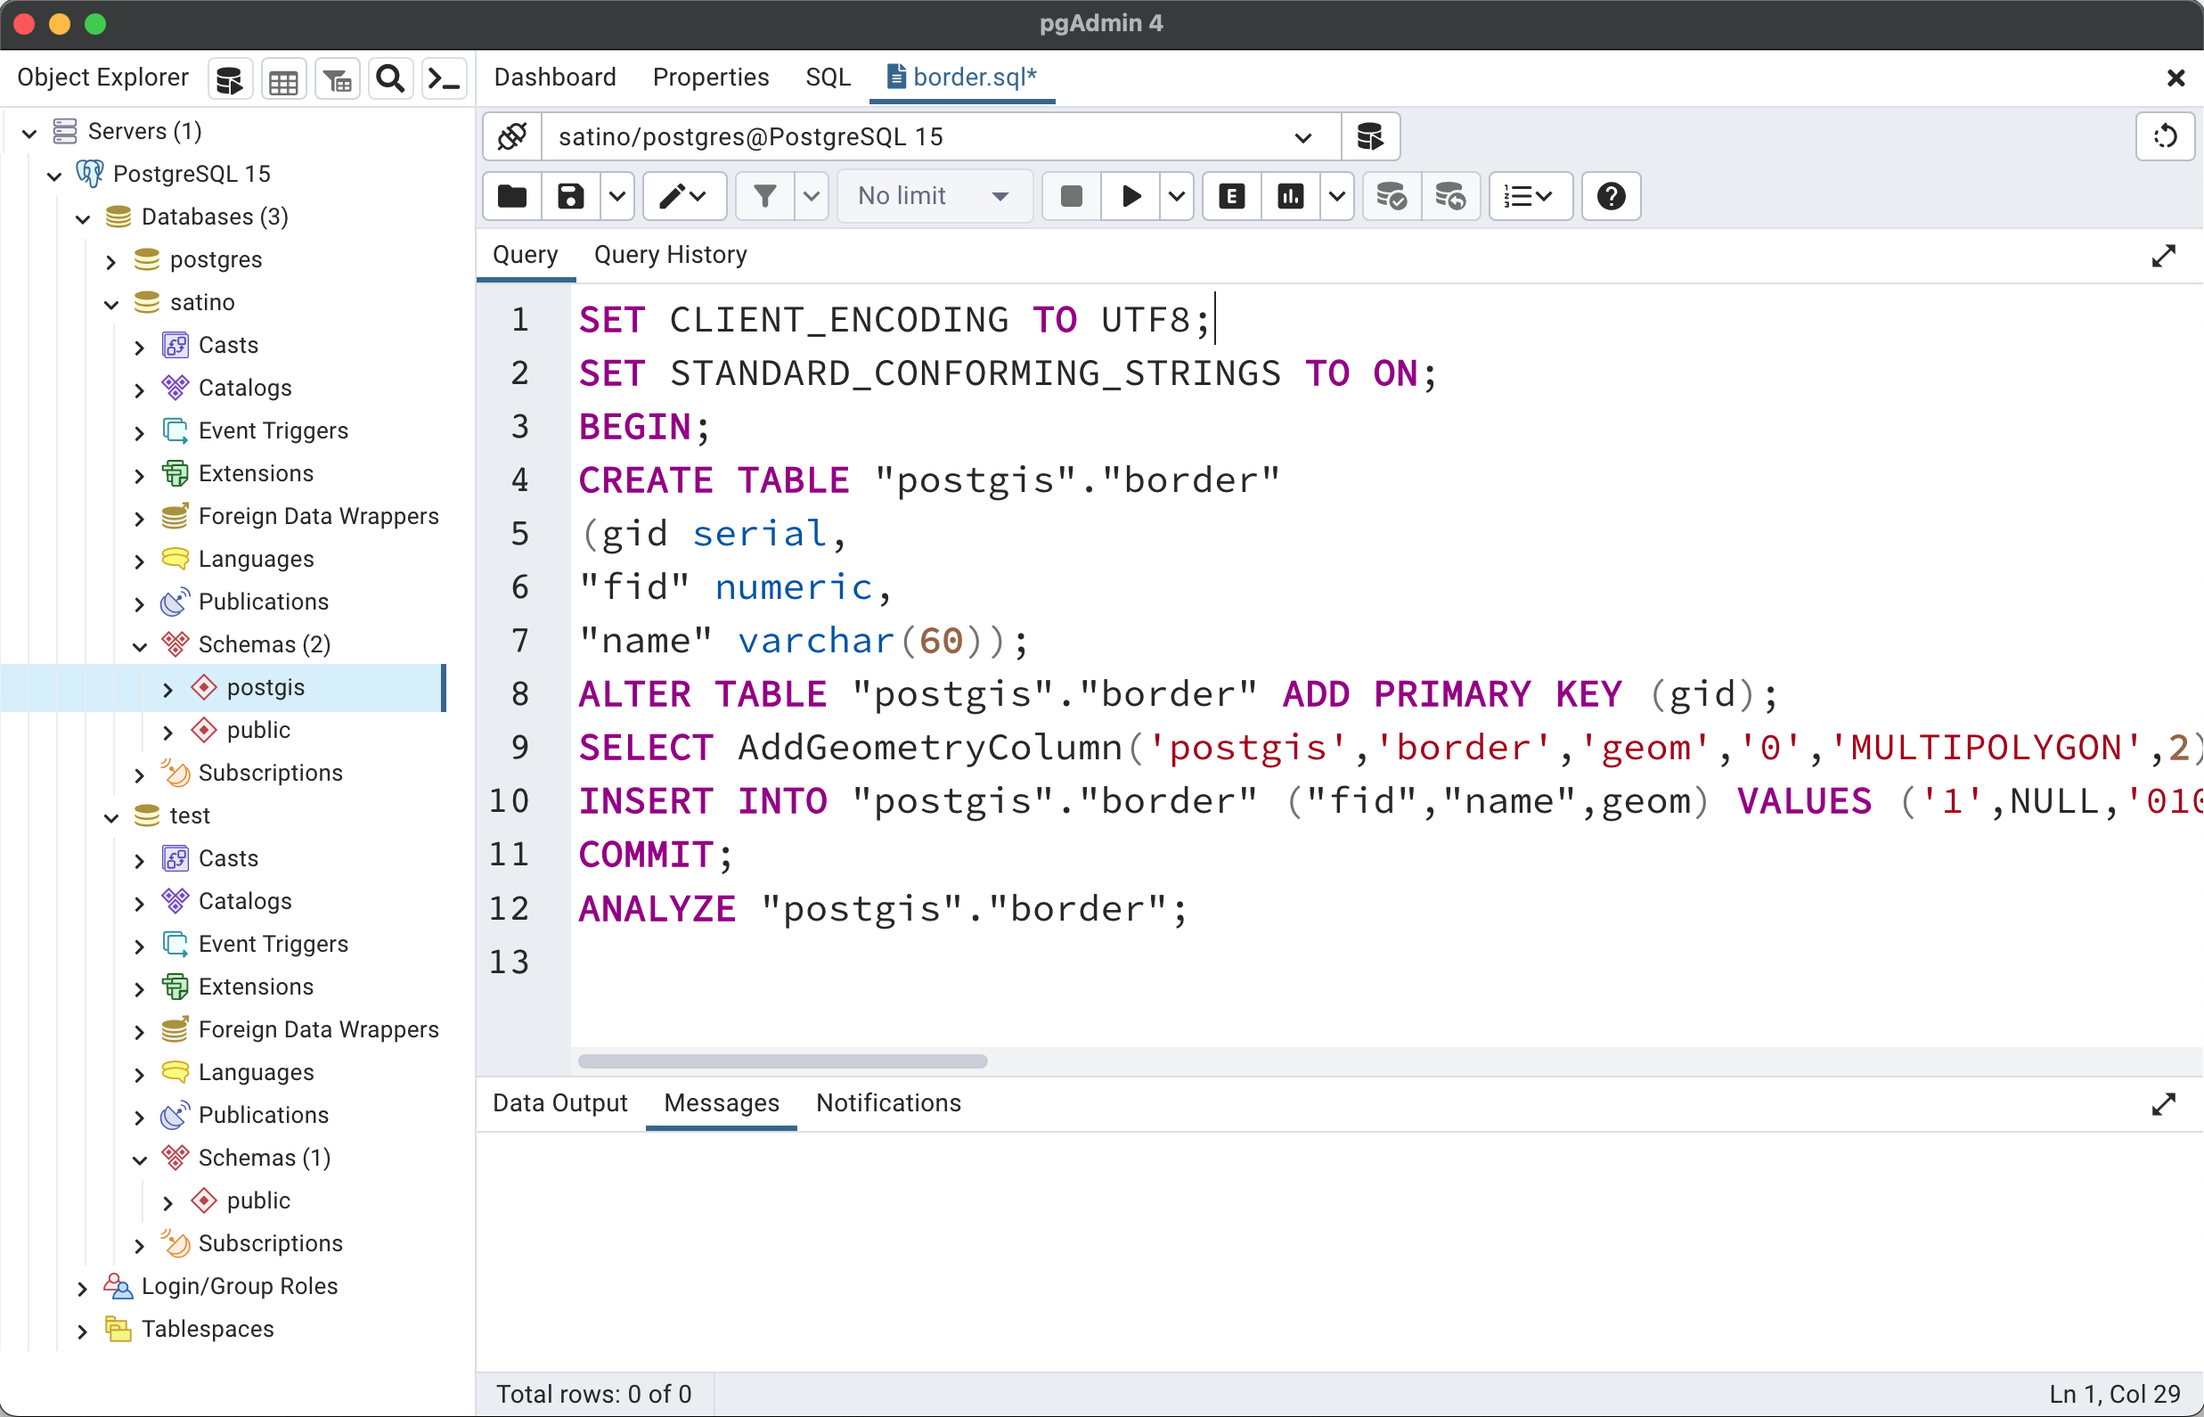
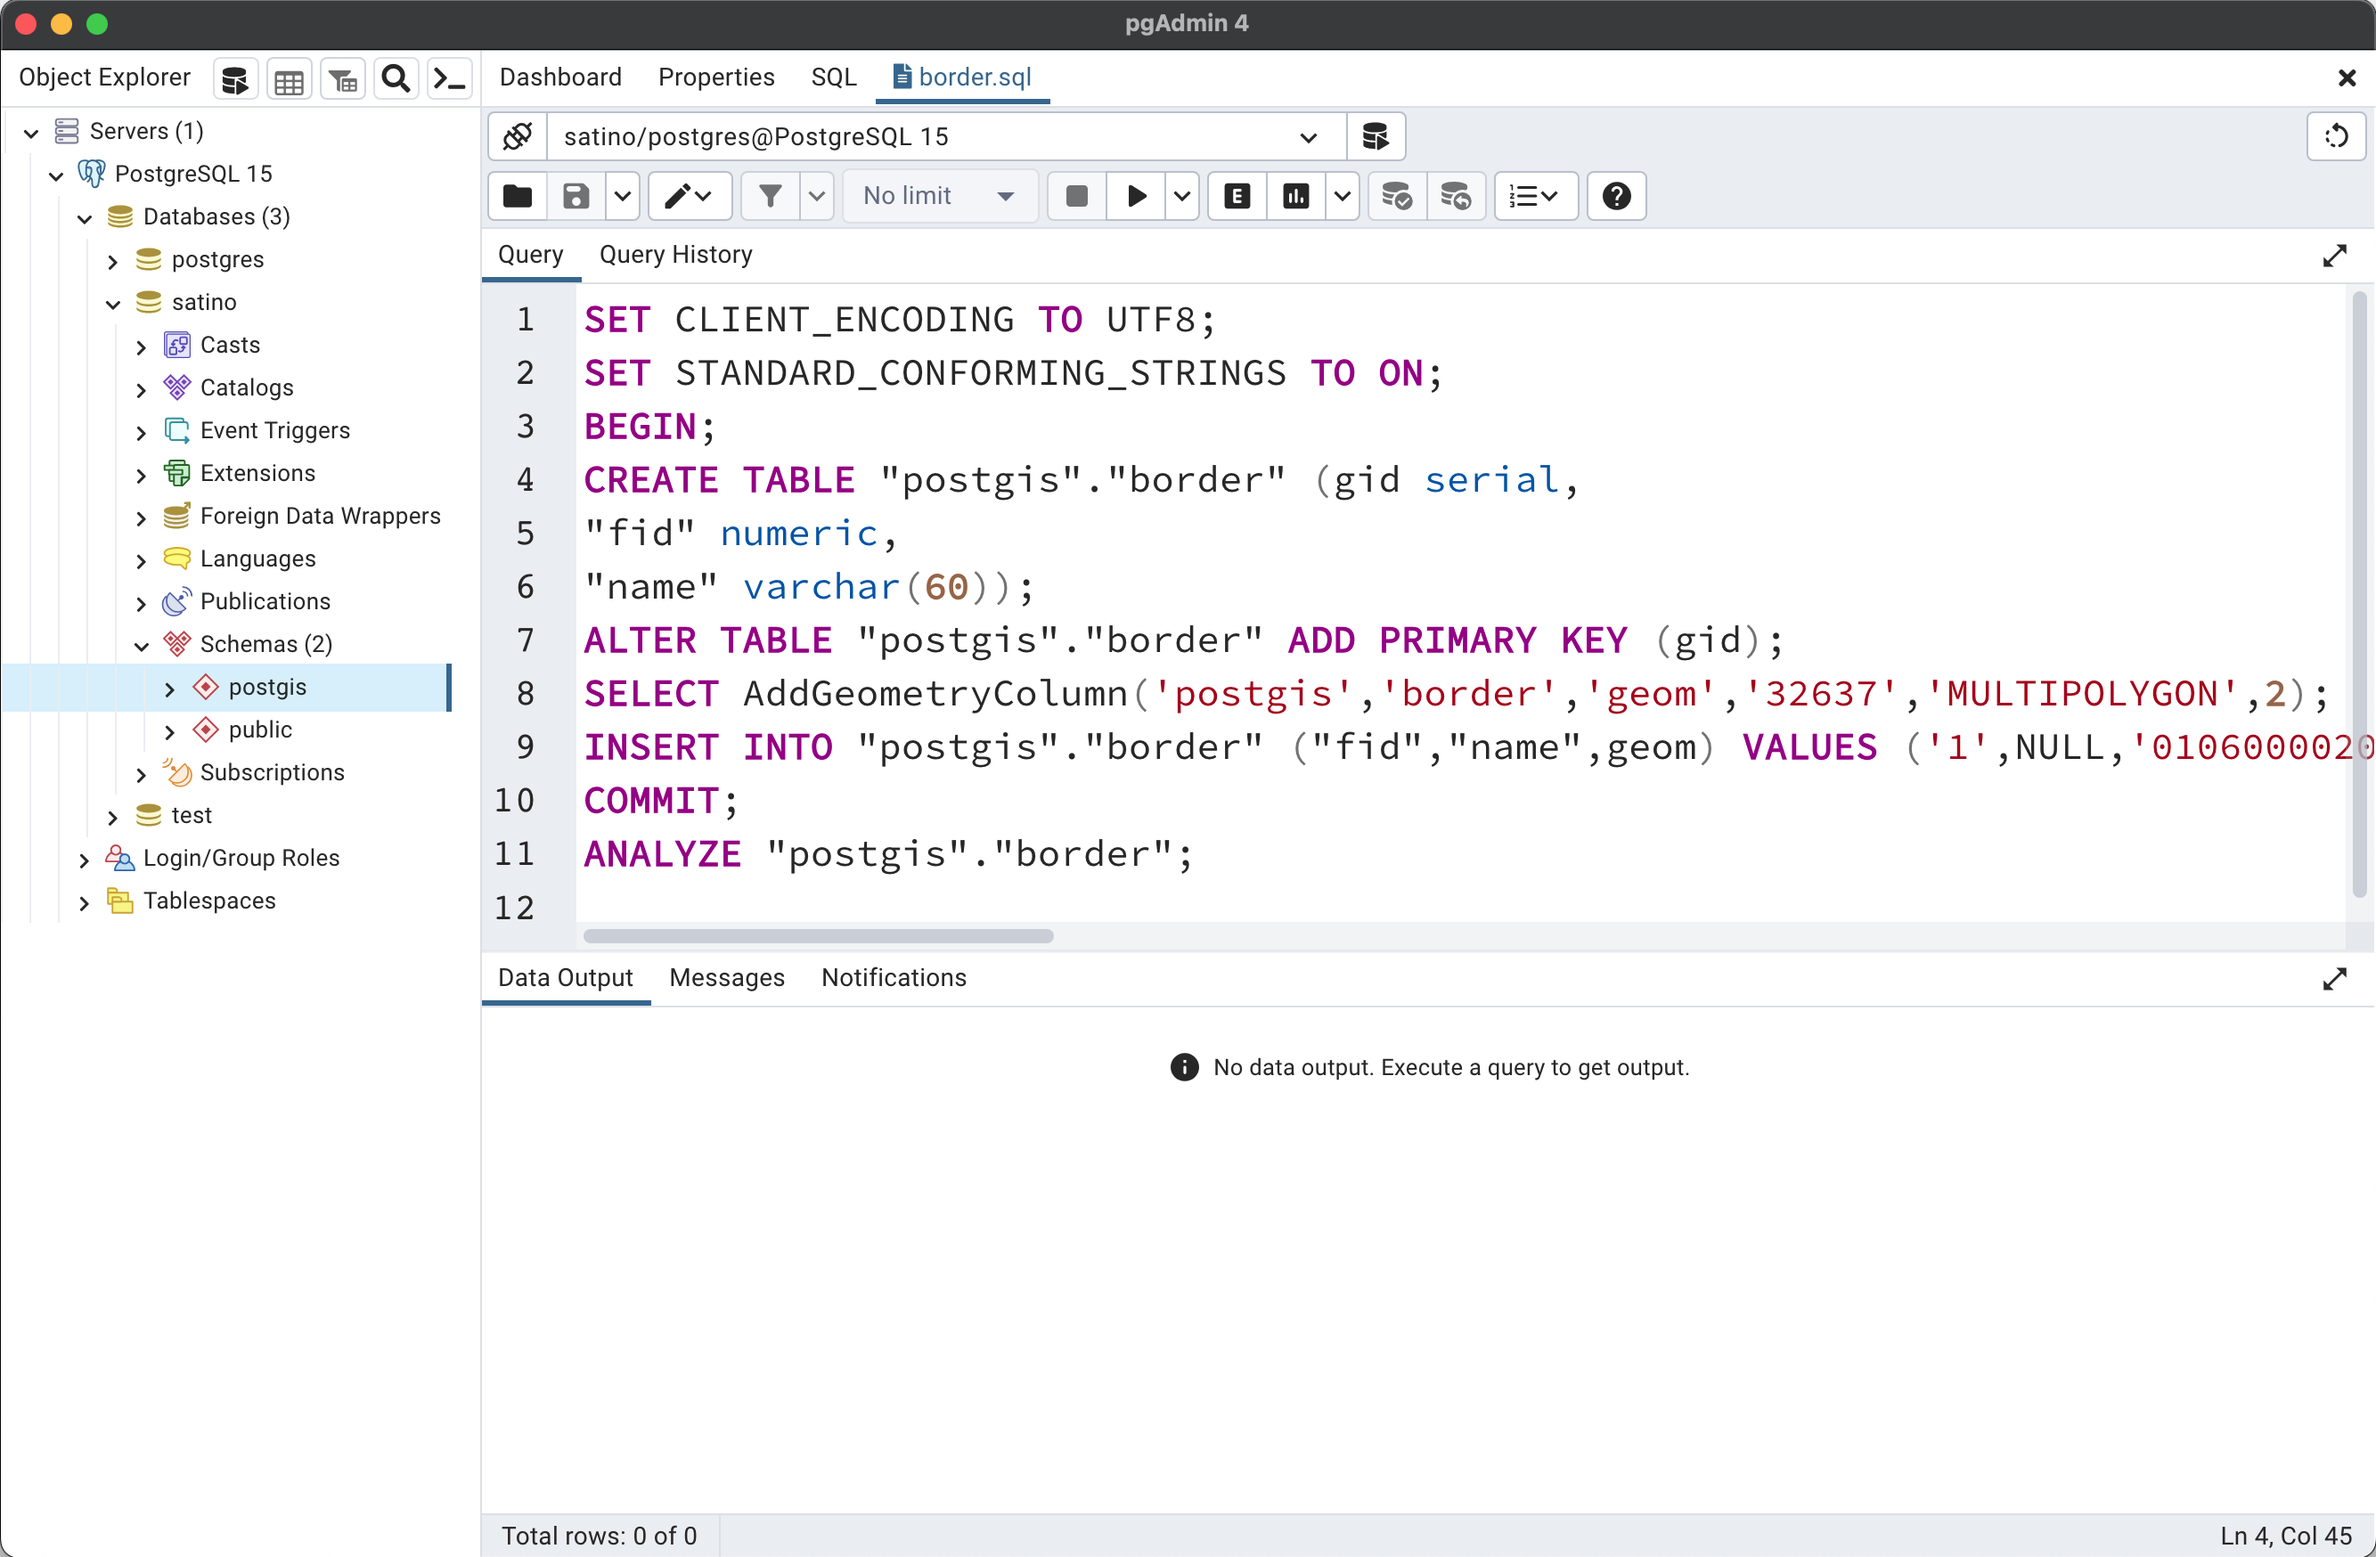
add -s switch

diff --git a/docs/adv_05_PostGIS_Import.html b/docs/adv_05_PostGIS_Import.html
@@ -696,7 +696,7 @@
 <section id="импорт-из-шейп-файла-2" class="slide level2">
 <h2>Импорт из шейп-файла</h2>
 <p>По факту утилита создает SQL-запрос, который можно направить в файл через <code>&gt;</code>:</p>
-<div class="sourceCode" id="cb12"><pre class="sourceCode numberSource bash number-lines code-with-copy"><code class="sourceCode bash"><span id="cb12-1"><a href="#cb12-1"></a><span class="ex">shp2pgsql</span> <span class="at">-g</span> geom border.shp postgis.border <span class="op">&gt;</span> border.sql</span></code><button title="Скопировать текст" class="code-copy-button"><i class="bi"></i></button></pre></div>
+<div class="sourceCode" id="cb12"><pre class="sourceCode numberSource bash number-lines code-with-copy"><code class="sourceCode bash"><span id="cb12-1"><a href="#cb12-1"></a><span class="ex">shp2pgsql</span> <span class="at">-s</span> 32637 <span class="at">-g</span> geom border.shp postgis.border <span class="op">&gt;</span> border.sql</span></code><button title="Скопировать текст" class="code-copy-button"><i class="bi"></i></button></pre></div>
 <div class="columns">
 <div class="column" style="width:30%;">
 <p>Полученный файл можно открыть средствами СУБД и запустить.</p>
@@ -786,10 +786,28 @@
 <span id="cb17-3"><a href="#cb17-3"></a>  <span class="ex">satino_thematic.gpkg</span> </span>
 <span id="cb17-4"><a href="#cb17-4"></a>  <span class="ex">-lco</span> GEOMETRY_NAME=geom <span class="at">-lco</span> SCHEMA=postgis</span></code><button title="Скопировать текст" class="code-copy-button"><i class="bi"></i></button></pre></div>
 </section>
-<section id="библиография" class="slide level2">
-<h2>Библиография</h2>
+<section id="подключение-к-postgis-из-qgis" class="slide level2">
+<h2>Подключение к PostGIS из QGIS</h2>
+<div class="columns">
+<div class="column" style="width:50%;">
+<p><em>PostgreSQL &gt; New Connection</em></p>
+<p><img data-src="images/pg_connect.png" style="width:85.0%"></p>
+</div><div class="column" style="width:50%;">
+<p><em>Basic &gt; Test Connection &gt; OK</em></p>
+<p><img data-src="images/pg_connect2.png" style="width:83.0%"></p>
+</div>
+</div>
+</section>
+<section id="подключение-к-postgis-из-qgis-1" class="slide level2">
+<h2>Подключение к PostGIS из QGIS</h2>
+<p>Пароль может быть запрошен снова, если на предыдущем шаге не поставить галочки <em>Store</em></p>
 
-<div class="footer footer-default">
+<img data-src="images/pg_password.png" class="r-stretch"></section>
+<section id="подключение-к-postgis-из-qgis-2" class="slide level2">
+<h2>Подключение к PostGIS из QGIS</h2>
+
+
+<img data-src="images/pg_qgis.png" class="r-stretch"><div class="footer footer-default">
 <p>Самсонов Т. Е. Геоинформатика: курс лекций</p>
 </div>
 </section>
